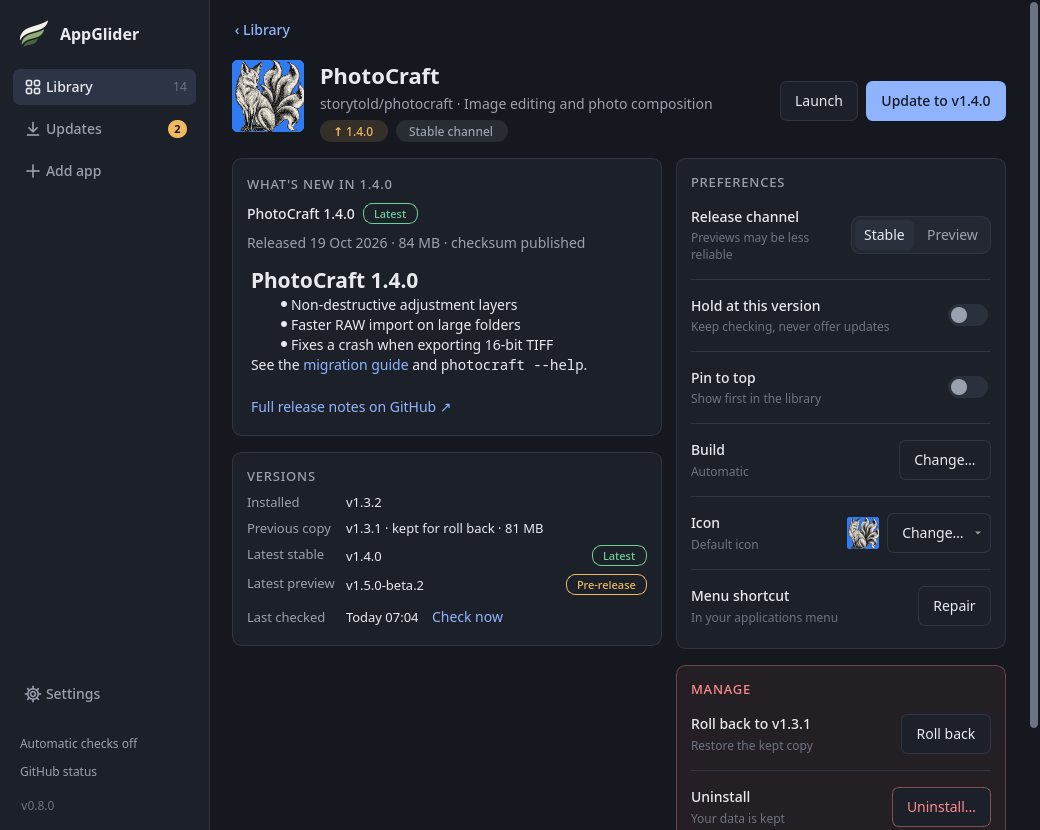
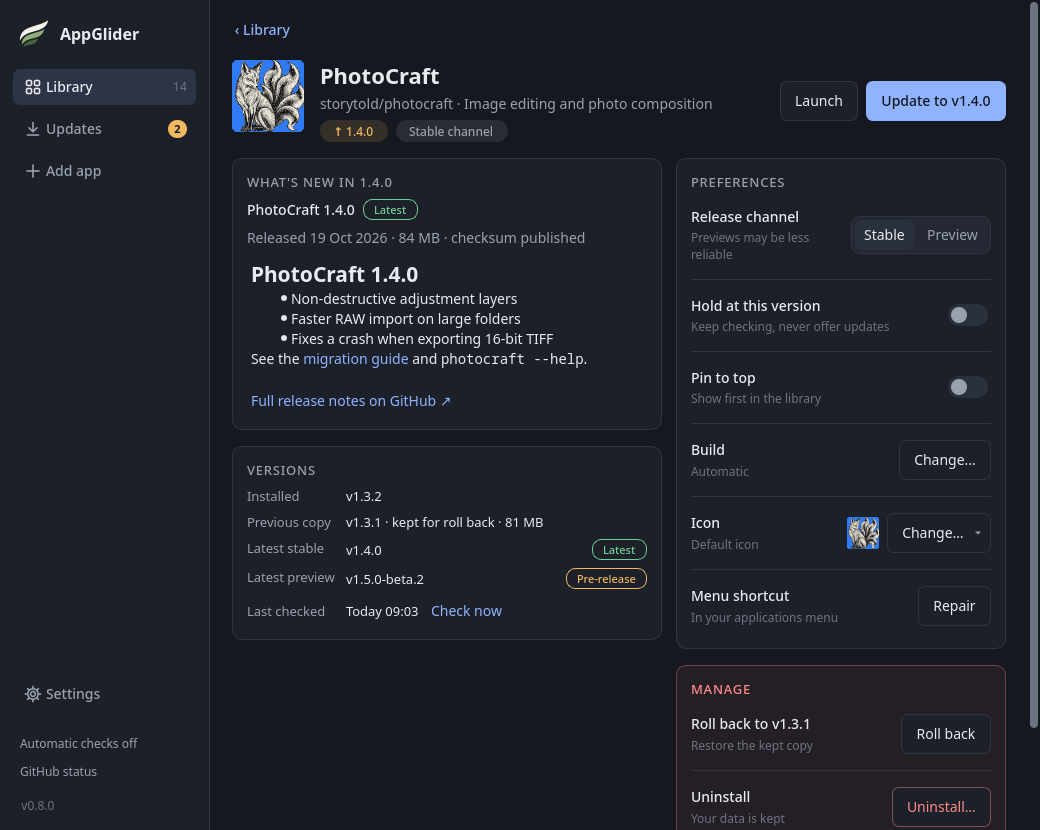
fix(ui): stack the app page columns when they do not fit
Wider fonts, such as DejaVu Sans on the CI runner, needed 682 px where 638 px was available at the minimum window size.

Changed region(s): [[0.2462, 0.2108, 0.5846, 0.4518], [0.2462, 0.4819, 0.6154, 0.753], [0.5538, 0.6325, 0.6154, 0.7229]]

diff --git a/src/appglider/app_page.py b/src/appglider/app_page.py
@@ -7,9 +7,10 @@ from pathlib import Path
 from threading import Event
 from typing import TYPE_CHECKING, Any
 
-from PySide6.QtCore import Qt, QUrl, Signal
+from PySide6.QtCore import QEvent, QObject, Qt, QUrl, Signal
 from PySide6.QtGui import QDesktopServices, QFont, QResizeEvent, QShowEvent
 from PySide6.QtWidgets import (
+    QBoxLayout,
     QFileDialog,
     QFrame,
     QGridLayout,
@@ -265,7 +266,8 @@ class AppPage(QScrollArea):
         self.setHorizontalScrollBarPolicy(Qt.ScrollBarPolicy.ScrollBarAlwaysOff)
         content = QWidget()
         self.setWidget(content)
-        root = QVBoxLayout(content)
+        content.installEventFilter(self)
+        self.root_layout = root = QVBoxLayout(content)
         root.setContentsMargins(22, 16, 22, 20)
         root.setSpacing(16)
         self.back_button = QPushButton("‹ Library")
@@ -275,14 +277,15 @@ class AppPage(QScrollArea):
         self.back_button.clicked.connect(self.back_requested)
         root.addWidget(self.back_button, alignment=Qt.AlignmentFlag.AlignLeft)
         self.build_header(root)
-        columns = QHBoxLayout()
-        columns.setSpacing(14)
-        left, right = QVBoxLayout(), QVBoxLayout()
+        # Two columns, stacked into one when a wide font leaves too little room for both.
+        self.columns = QBoxLayout(QBoxLayout.Direction.LeftToRight)
+        self.columns.setSpacing(14)
+        self.column_layouts = left, right = QVBoxLayout(), QVBoxLayout()
         left.setSpacing(16)
         right.setSpacing(16)
-        columns.addLayout(left, stretch=13)
-        columns.addLayout(right, stretch=10)
-        root.addLayout(columns)
+        self.columns.addLayout(left, stretch=13)
+        self.columns.addLayout(right, stretch=10)
+        root.addLayout(self.columns)
         root.addStretch()
         self.build_notes(left)
         self.build_versions(left)
@@ -290,6 +293,33 @@ class AppPage(QScrollArea):
         self.build_preferences(right)
         self.build_manage(right)
         right.addStretch()
+
+    def fit_columns(self) -> None:
+        left, right = self.column_layouts
+        margins = self.root_layout.contentsMargins()
+        needed = (
+            left.minimumSize().width()
+            + right.minimumSize().width()
+            + self.columns.spacing()
+            + margins.left()
+            + margins.right()
+        )
+        wide = self.viewport().width() >= needed
+        direction = QBoxLayout.Direction.LeftToRight if wide else QBoxLayout.Direction.TopToBottom
+        if self.columns.direction() != direction:
+            self.columns.setDirection(direction)
+            self.columns.setStretch(0, 13 if wide else 0)
+            self.columns.setStretch(1, 10 if wide else 0)
+
+    def resizeEvent(self, event: QResizeEvent) -> None:
+        super().resizeEvent(event)
+        self.fit_columns()
+
+    def eventFilter(self, watched: QObject, event: QEvent) -> bool:  # noqa: N802
+        # Minimum widths settle only after styling and new text, so check again then.
+        if watched is self.widget() and event.type() == QEvent.Type.LayoutRequest:
+            self.fit_columns()
+        return super().eventFilter(watched, event)
 
     # Construction
 
@@ -366,6 +396,8 @@ class AppPage(QScrollArea):
         self.notes_link = link_button("Full release notes on GitHub ↗")
         self.notes_link.clicked.connect(self.open_release_page)
         layout.addWidget(self.notes_link, alignment=Qt.AlignmentFlag.AlignLeft)
+        # The notes view sizes itself; spare height belongs below the panels, not inside.
+        frame.setSizePolicy(QSizePolicy.Policy.Preferred, QSizePolicy.Policy.Maximum)
         column.addWidget(frame)
 
     def build_versions(self, column: QVBoxLayout) -> None:

diff --git a/tests/test_app_page.py b/tests/test_app_page.py
@@ -16,7 +16,7 @@ from catalog_fixture import APPS, stock
 from gui_helpers import close_window
 from PySide6.QtCore import QSettings, Qt, QUrl
 from PySide6.QtTest import QTest
-from PySide6.QtWidgets import QApplication, QMessageBox
+from PySide6.QtWidgets import QApplication, QBoxLayout, QMessageBox
 from test_builds import BAMBU, bambu_metadata, chosen_bambu
 from test_library import APP, appimage_bytes, release_for
 
@@ -609,6 +609,22 @@ class AppPageTests(unittest.TestCase):
         content = self.page.widget()
         self.assertLessEqual(content.minimumSizeHint().width(), self.page.viewport().width())
         self.assertEqual(self.page.horizontalScrollBar().maximum(), 0)
+
+    def test_columns_stack_when_a_wide_font_leaves_too_little_room(self) -> None:
+        self.install("1.3.0", "1.3.1")
+        self.window.resize(1400, 700)
+        self.window.open_app(APP.id)
+        for _ in range(3):
+            self.qt.processEvents()
+        self.assertEqual(self.page.columns.direction(), QBoxLayout.Direction.LeftToRight)
+        # Stands in for a wider desktop font, which the stylesheet's pixel sizes rule out here.
+        self.page.notes_panel.setMinimumWidth(900)
+        for _ in range(3):
+            self.qt.processEvents()
+        self.assertEqual(self.page.columns.direction(), QBoxLayout.Direction.TopToBottom)
+        self.assertLessEqual(
+            self.page.widget().minimumSizeHint().width(), self.page.viewport().width()
+        )
 
     def test_up_to_date_apps_show_the_notes_of_their_current_release(self) -> None:
         self.install("1.0.0")
